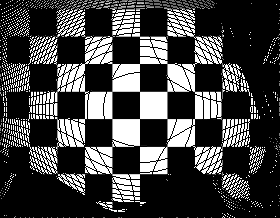
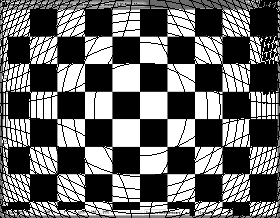
Added function for undistortion

diff --git a/RadialDistortion.py b/RadialDistortion.py
@@ -13,14 +13,16 @@ print(img.shape)
 height,width=img.shape[:2]
 width_center=width//2
 height_center=height//2
-k1_value=-1e-5
-k2_value=0
-k3_value=0
+k1_value=-5e-6
+k2_value=1e-12
+k3_value=1e-15
 blank_image = np.zeros((height,width), dtype=np.uint8)
+mappings=[]
 '''max_possible_height_center=max_possible_height//2
 max_possible_width_center=max_possible_width//2'''
 #Blank black image which will be used later.
 print(height,width)
+mapping_counter=0
 for height_pixel in range(0,height+1,1):
     for width_pixel in range(0,width+1,1):
         r_value=(((width_pixel-width_center)**2)+((height_pixel-height_center)**2))**0.5
@@ -28,37 +30,79 @@ for height_pixel in range(0,height+1,1):
         y_distorted=(height_pixel-height_center)*(1+k1_value*(r_value**2)+k2_value*(r_value**4)+k3_value*(r_value**6))
         try:
             blank_image[round(y_distorted)+height_center,round(x_distorted)+width_center]=img[height_pixel,width_pixel]
+            if height_pixel==0 and width_pixel>=width_center and mapping_counter<=3:
+                mappings+=[[[width_pixel,height_pixel],[x_distorted,y_distorted]]]
+                mapping_counter+=1
         except:
             '''print("Distorted Height",round(y_distorted)-2+height_center)
             print("Distorted Width",round(x_distorted)-2+width_center)
             print('Height',height)
             print('Width',width)'''
 #blank_image=cv2.resize(blank_image,(width,height))
-cv2.imwrite("check.png",blank_image)
+cv2.imwrite("check4.png",blank_image)
 
-def myFunction(z,x_distorted,y_distorted,width_center,height_center,k1):
-   x = z[0]
-   y = z[1]
+def undistortion(blank_image,mappings,k_values,height=218,width=280,height_center=109,width_center=140):
+    def myFunction(z,k_values,x_distorted,y_distorted,width_center,height_center):
+        if k_values==1:
+            k1=z[0]
+            F = np.empty((1))
+            r_value=(((x-140)**2)+((y-109)**2))**0.5
+            F[0] = (mappings[0][1][0])*(1+k1*(r_value**2))-(mappings[0][0][1]-width_center)
+            return F
+        elif k_values==2:
+            k1=z[0]
+            k2=z[1]
+            F=np.empty((2))
+            r_value=(((x-140)**2)+((y-109)**2))**0.5
+            F[0] = (mappings[0][1][0])*(1+k1*(r_value**2)+k2*(r_value**4))-(mappings[0][0][0]-width_center)
+            F[1] = (mappings[1][1][0])*(1+k1*(r_value**2)+k2*(r_value**4))-(mappings[1][0][0]-width_center)
+            return F
+        elif k_values==3:
+            k1=z[0]
+            k2=z[1]
+            k3=z[2]
+            F=np.empty((3))
+            r_value=(((x-140)**2)+((y-109)**2))**0.5
+            F[0] = (mappings[0][1][0])*(1+k1*(r_value**2)+k2*(r_value**4)+k3*(r_value**6))-(mappings[0][0][0]-width_center)
+            F[1] = (mappings[1][1][0])*(1+k1*(r_value**2)+k2*(r_value**4)+k3*(r_value**6))-(mappings[1][0][0]-width_center)
+            F[2] = (mappings[2][1][0])*(1+k1*(r_value**2)+k2*(r_value**4)+k3*(r_value**6))-(mappings[2][0][0]-width_center)
+            return F
+    if k_values==1:
+        zGuess=np.array([1])
+    elif k_values==2:
+        zGuess=np.array([1,1])
+    elif k_values==3:
+        zGuess=np.array([1,1,1])
+    z=fsolve(myFunction,zGuess,args=(k_values,x_distorted,y_distorted,width_center,height_center,mappings))
+    if k_values==1:
+        k1_value=z[0]
+        k2_value=0
+        k3_value=0
+    if k_values==2:
+        k1_value=z[0]
+        k2_value=z[1]
+        k3_value=0
+    if k_values==3:
+        k1_value=z[0]
+        k2_value=z[1]
+        k3_value=z[2]
+    counter=0
+    length_counter=0
+    blank_image_2=np.zeros((height,width),dtype=np.uint8)
+    for height_pixel in range(0,height+1,1):
+        for width_pixel in range(0,width+1,1):
+            r_value=(((width_pixel-width_center)**2)+((height_pixel-height_center)**2))**0.5
+            x_distorted=(width_pixel-width_center)*(1+k1_value*(r_value**2)+k2_value*(r_value**4)+k3_value*(r_value**6))
+            y_distorted=(height_pixel-height_center)*(1+k1_value*(r_value**2)+k2_value*(r_value**4)+k3_value*(r_value**6))
+            try:
+                blank_image_2[int(round(z[1])),int(round(z[0]))]=blank_image[height_pixel,width_pixel]
+                counter+=1
+            except:
+                y=1
+            length_counter+=1
+    cv2.imwrite('undistortion_results'+'k_values_considered_'+str(k_values)+'.png',blank_image_2)
+    print(counter/length_counter)
+    return True
 
-   F = np.empty((2))
-   r_value=(((x-140)**2)+((y-109)**2))**0.5
-   F[0] = (x-width_center)*(1+k1*(r_value**2))-(x_distorted-width_center)
-   F[1] = (y-height_center)*(1+k1*(r_value**2))-(y_distorted-height_center)
-   return F
-
-counter=0
-length_counter=0
-blank_image_2=np.zeros((height,width),dtype=np.uint8)
-for height_pixel in range(0,height+1,1):
-    for width_pixel in range(0,width+1,1):
-        zGuess = np.array([1,1])
-        z = fsolve(myFunction,zGuess,args=(width_pixel, height_pixel,width_center,height_center,k1_value))
-        #print(round(z[1]))
-        try:
-            blank_image_2[int(round(z[1])),int(round(z[0]))]=blank_image[height_pixel,width_pixel]
-            counter+=1
-        except:
-            y=1
-        length_counter+=1
-cv2.imwrite('check2.png',blank_image_2)
-print(counter/length_counter)
+#Undistortion for solely k1:
+blank_image_k1=undistortion(

diff --git a/sample_test.py b/sample_test.py
@@ -46,7 +46,7 @@ print(solve((function_1,function_2),(x,y)))
 end=time.time()
 print(end-start)'''
 
-from scipy.optimize import fsolve
+'''from scipy.optimize import fsolve
 
 x_distorted=200
 y_distorted=109
@@ -63,4 +63,11 @@ def myFunction(z,x_distorted_y_distorted):
 
 zGuess = np.array([1,1])
 z = fsolve(myFunction,zGuess,args=(y_distorted))
-print(z[0])
+print(z[0])'''
+
+from sympy.solvers import solve
+import sympy
+a, b, c, x, y,x_distorted, y_distorted, k1, height_center, width_center= sympy.symbols(('a', 'b', 'c', 'x', 'y','x_distorted', 'y_distorted','k1', 'height_center', 'width_center'))
+eq1 = sympy.Eq((x-width_center)*(1+k1*((((x-140)**2)+((y-109)**2))**0.5)**2), x_distorted+width_center)
+eq2 = sympy.Eq((y-height_center)*(1+k1*(((((x-140)**2)+((y-109)**2))**0.5)**2)), y_distorted+height_center)
+print(sympy.solve([eq1, eq2], [x, y]))
